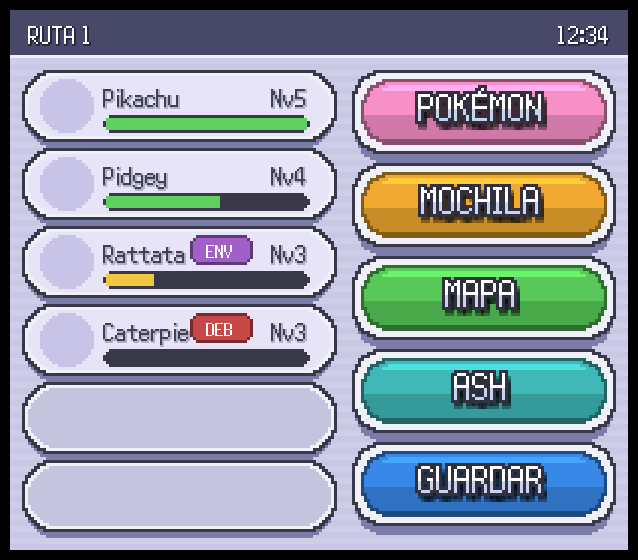
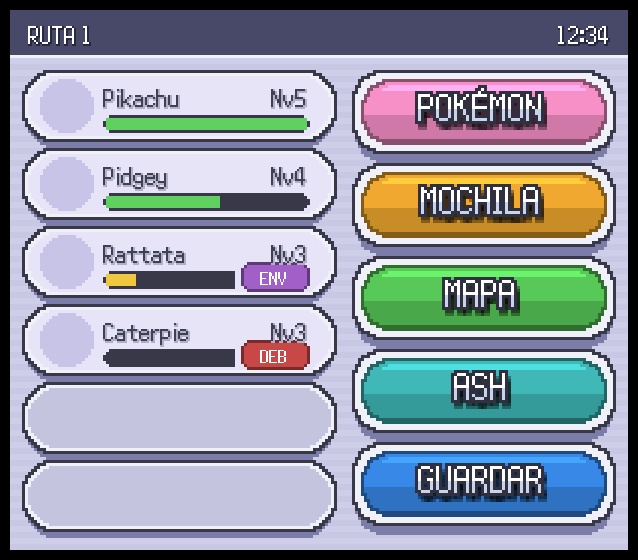
Docs: home screen, status tag moved beside the HP bar
Claude-Session: https://claude.ai/code/session_01DHr5gH1wGn6zvSQQgLyG2H

Changed region(s): [[0.2978, 0.3946, 0.5063, 0.6679], [0.2085, 0.4857, 0.2382, 0.5161]]

diff --git a/docs/ds-screen/ds_mock_overworld.py b/docs/ds-screen/ds_mock_overworld.py
@@ -30,12 +30,14 @@ def home():
         if i < len(PARTY):
             n, lv, hp, tot, st = PARTY[i]; x0, y0, x1, y1 = b; f = hp / tot
             col = (96, 208, 96) if f > 0.5 else (240, 200, 64) if f > 0.2 else (240, 88, 72)
-            full = x1 - 10 - (x0 + 28)
-            if hp: d.rectangle((x0+28, y0+16, x0+28+int(full*f), y0+19), fill=col)
             tag = (160, 96, 200) if st else (200, 72, 72) if hp == 0 else None
+            end = x1 - 34 if tag else x1 - 9                       # the status tag sits at the end of the HP bar's row, clear of the name
+            if tag: d.rectangle((end + 1, y0+14, x1-8, y0+21), fill=(232, 228, 248))
+            full = end - 1 - (x0 + 28)
+            if hp: d.rectangle((x0+28, y0+16, x0+28+int(full*f), y0+19), fill=col)
             if tag:
-                d.rounded_rectangle((x1-48, y0+3, x1-28, y0+12), 3, fill=m.shade(tag, 0.6))
-                d.rounded_rectangle((x1-47, y0+4, x1-29, y0+11), 2, fill=tag)
+                d.rounded_rectangle((x1-31, y0+12, x1-9, y0+21), 3, fill=m.shade(tag, 0.6))
+                d.rounded_rectangle((x1-30, y0+13, x1-10, y0+20), 2, fill=tag)
     btns = [(114, 20 + i*31, 201, 20 + i*31 + 27) for i in range(5)]   # wide enough for SAUVEGARDER / SPEICHERN
     for (label, col), b in zip(ACTIONS, btns):
         m.button(d, b, col, 9)
@@ -46,7 +48,7 @@ def home():
     for (n, lv, hp, tot, st), b in zip(PARTY, cells):
         m.ttf(d, n, (b[0]+27)*S, (b[1]+8)*S, 52, (64, 64, 80), (176, 176, 200), 'lm')
         m.ttf(d, 'Nv' + str(lv), (b[2]-9)*S, (b[1]+8)*S, 52, (64, 64, 80), (176, 176, 200), 'rm')
-        if st or hp == 0: m.ttf(d, st or 'DEB', (b[2]-38)*S, (b[1]+7.5)*S, 39, (255, 255, 255), None, 'mm')
+        if st or hp == 0: m.ttf(d, st or 'DEB', (b[2]-20)*S, (b[1]+16.5)*S, 39, (255, 255, 255), None, 'mm')
     return big
 
 def topbar(d, AWd=AW):
